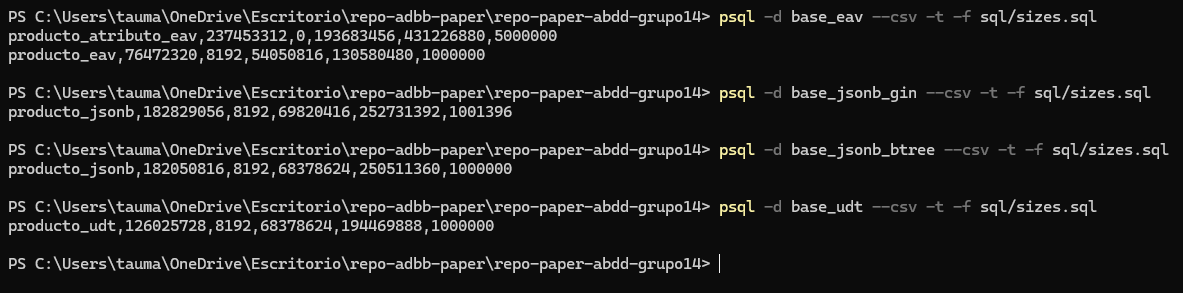
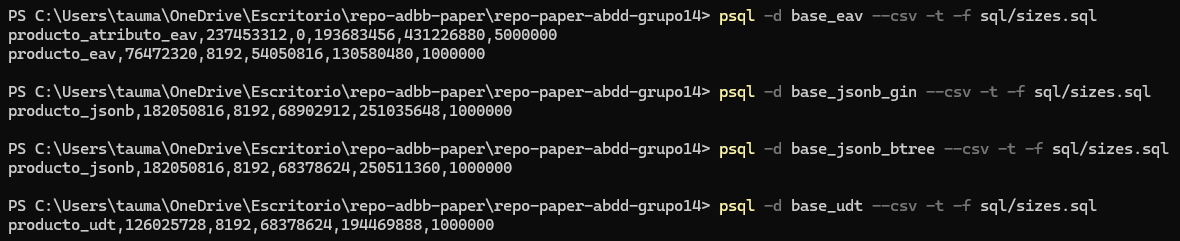
fix(optimizador): corrige optimizador GIN/B-tree, reemplaza capturas y realiza aclaración de figuras piloto.

Changed region(s): [[0.0, 0.4357, 1.0, 0.9585], [0.0, 0.029, 0.9458, 0.2614], [0.0, 0.2905, 0.9763, 0.4066]]

diff --git a/PASOAPASOSINSCRIPT.md b/PASOAPASOSINSCRIPT.md
@@ -9,7 +9,7 @@ Un paper de benchmark académico necesita mostrar **evidencia reproducible**. A 
 | **Fig. 1** Entorno de prueba | Versión de PostgreSQL, CPU, RAM, SO | `SELECT version();` + info del sistema | Paso 1 (setup) |
 | **Fig. 2** Creación de esquemas | Salida de `psql` ejecutando los DDL de un modelo | `\dt` o mensajes `CREATE TABLE` | Paso 4 (DDL) |
 | **Fig. 3** Verificación de datos idénticos | `COUNT(*)` en las 4 bases (debe dar lo mismo) | `SELECT count(*) FROM producto_eav;` etc. | Paso 6 (verificación) |
-| **Fig. 4** Ejecución de pgbench (ejemplo) | Output de terminal con TPS, latencia promedio | `pgbench -d base_... -f ... -c 10 -j 2 -T 60` | Paso 7 (piloto) |
+| **Fig. 4** Ejecución de pgbench (piloto) | Output de terminal con TPS, latencia promedio | `pgbench -d base_... -f ... -c 10 -j 2 -T 60` | Paso 7 (piloto) |
 | **Fig. 5** Medición de WAL | `pg_current_wal_lsn()` antes y después + `pg_wal_lsn_diff()` | SQL de WAL | Paso 8 (WAL) |
 | **Fig. 6** Tamaño en disco | Output de `sizes.sql` (bytes heap, toast, índices, total) | `psql --csv -f sql/sizes.sql` | Paso 9 (tamaños) |
 | **Fig. 7** EXPLAIN ANALYZE | Plan de ejecución mostrando `rows=` estimado vs `Actual rows` | `psql -f sql/explain_optimizador.sql` | Paso 10 (optimizador) |
@@ -106,6 +106,8 @@ number of transactions actually processed: XXXXX
 latency average = XX ms
 tps = XX.XXXXXX
 ```
+
+Las Figuras 4 y 5 corresponden a la prueba piloto de validación, ejecutada con pesos `@9/@1/@1` (81,8 % lecturas, 9,1 % UPDATE y 9,1 % INSERT); las corridas finales usan pesos que representan exactamente cada ratio.
 
 ### Paso 5: Medir WAL generado (antes y después de una corrida)
 
